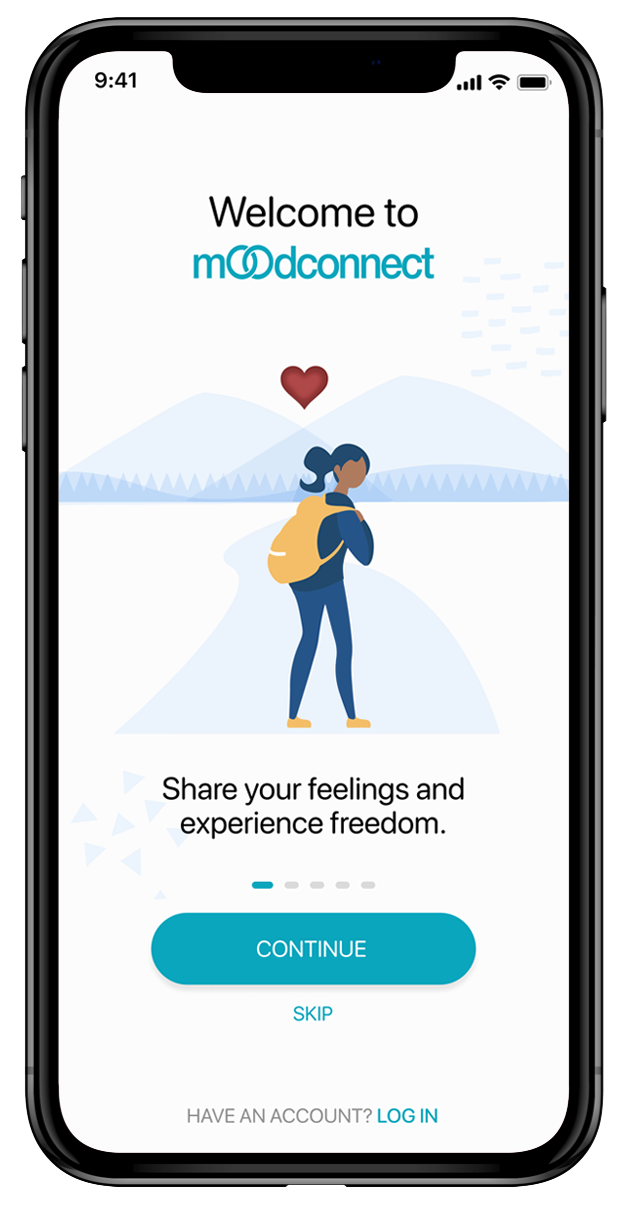
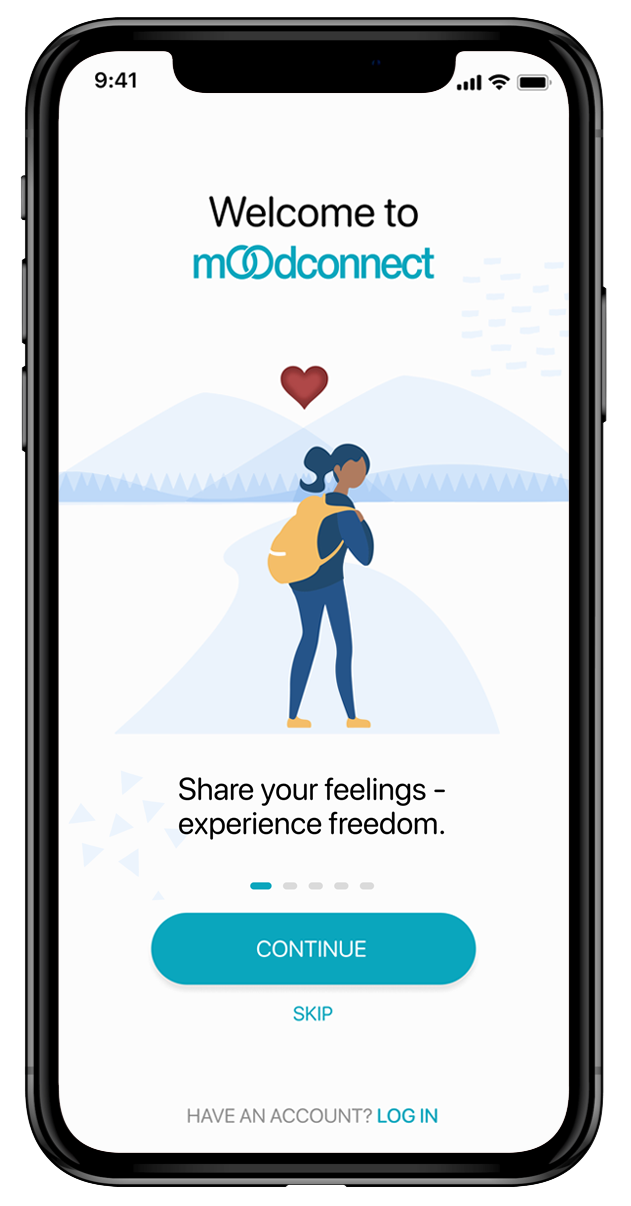
new copy and image on index

Changed region(s): [[0.2409, 0.6443, 0.7528, 0.7056]]

diff --git a/index.html b/index.html
@@ -57,9 +57,9 @@
                 <div class="col-12 col-md-6 col-lg-5 top-left-col">
                     <div class="row">
                         <div class="col-12">
-                            <h1 class="display-4">Share your feelings</h1>
-                            <h1 class="display-4">and experience</h1>
-                            <h1 class="display-4">freedom.</h1>
+                            <h1 class="display-4">Share your feelings -</h1>
+                            <h1 class="display-4">experience freedom.</h1>
+                            <!-- <h1 class="display-4">freedom.</h1> -->
                         </div>
                     </div>
                     <div class="row">
@@ -80,7 +80,7 @@
         <div class="jumbotron jumbotron-fluid mood-blue-jumbo">
             <div class="container py-2">
                 <div class="row text-center py-5">
-                    <h2>Available for download March 2021</h2>
+                    <h2>Available for download Spring 2021</h2>
                 </div>
             </div>
 
